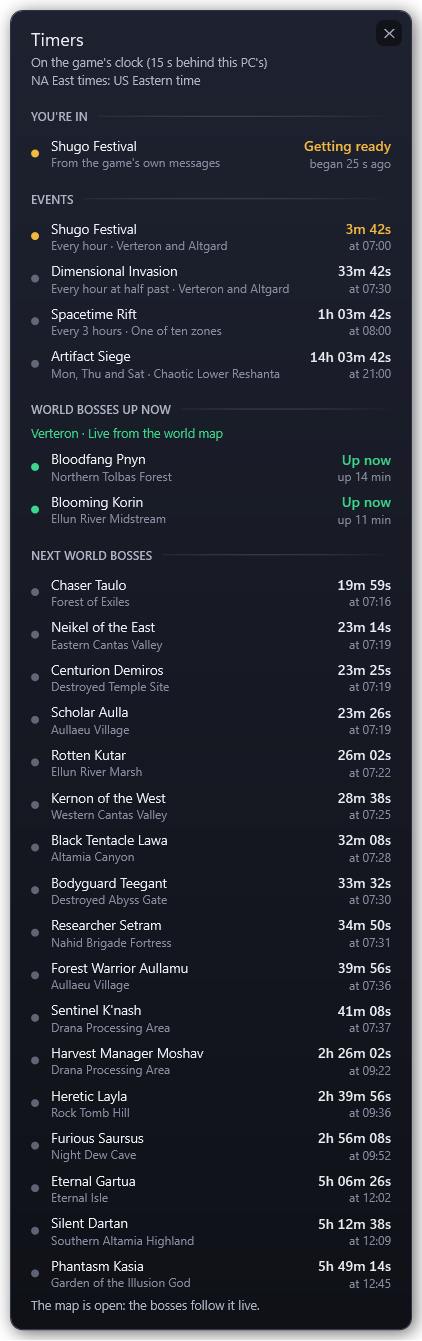
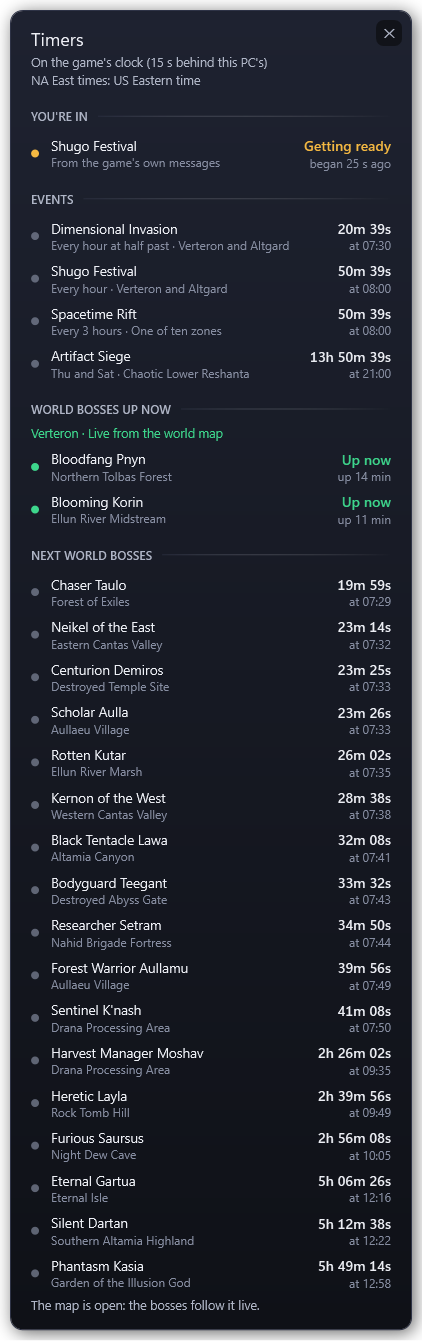
Tracker: the Artifact Siege is Thursday and Saturday (twice a week since the Nov 4 patch)

diff --git a/tracker/KinahLedger.Tracker/Packets/PacketTests.cs b/tracker/KinahLedger.Tracker/Packets/PacketTests.cs
@@ -657,18 +657,18 @@ public static class PacketTests
         // daylight saving: the same Eastern wall-clock grid in October (aion2-data's 00:00 UTC Rift anchor of 2026-10-07), across
         // the autumn change, and over the hour skipped in spring
         var summer = EventTimers.Around(rift, U(10, 7, 22, 30), naE).Next;
-        var mon = EventTimers.Around(siege, U(10, 12, 12), naE).Next;
+        var thu = EventTimers.Around(siege, U(10, 15, 12), naE).Next;
         var (fallLast, fallNext) = EventTimers.Around(rift, U(11, 1, 4), naE);
         var spring = EventTimers.Around(rift, new DateTime(2027, 3, 14, 5, 0, 0, DateTimeKind.Utc), naE).Next;
-        Check(summer == U(10, 8, 0) && mon == U(10, 13, 1) && fallLast == U(11, 1, 3) && fallNext == U(11, 1, 7) && spring == new DateTime(2027, 3, 14, 7, 0, 0, DateTimeKind.Utc),
-            $"...daylight saving: the Rift at {summer:HH:mm}Z on 2026-10-07 (20:00 EDT), the siege Mon 21:00 EDT = {mon:ddd HH:mm}Z; on 2026-11-01 {fallLast:HH:mm}Z then {fallNext:HH:mm}Z (23:00 EDT, 02:00 EST); on 2027-03-14 02:00 doesn't exist: {spring:HH:mm}Z (03:00 EDT)");
+        Check(summer == U(10, 8, 0) && thu == U(10, 16, 1) && fallLast == U(11, 1, 3) && fallNext == U(11, 1, 7) && spring == new DateTime(2027, 3, 14, 7, 0, 0, DateTimeKind.Utc),
+            $"...daylight saving: the Rift at {summer:HH:mm}Z on 2026-10-07 (20:00 EDT), the siege Thu 21:00 EDT = {thu:ddd HH:mm}Z; on 2026-11-01 {fallLast:HH:mm}Z then {fallNext:HH:mm}Z (23:00 EDT, 02:00 EST); on 2027-03-14 02:00 doesn't exist: {spring:HH:mm}Z (03:00 EDT)");
         var at3 = EventTimers.RowOf(EventTimers.Schedule[0], U(11, 14, 2, 3), lag, naE);
         var at6 = EventTimers.RowOf(EventTimers.Schedule[0], U(11, 14, 2, 6), lag, naE);
         Check(at3 is { OnNow: true, When: "started 3 min ago" } && at6 is { OnNow: false, When: "54m 00s" }, $"...the Shugo Festival 3 min past the hour: {Say(at3)}; at 6 past: {Say(at6)}");
         var siegeOn = EventTimers.RowOf(siege, U(11, 15, 2, 5), lag, naE);
         var siegeNext = EventTimers.RowOf(siege, U(11, 15, 2, 25), lag, naE);
-        Check(siegeOn.OnNow && !siegeNext.OnNow && siegeNext.StartPc == U(11, 17, 2) + lag && siegeNext.When == "1d 23h 35m",
-            $"...the Artifact Siege on Saturday 21:05 ET, then next on Monday 21:00 ET: {Say(siegeNext)}");
+        Check(siegeOn.OnNow && !siegeNext.OnNow && siegeNext.StartPc == U(11, 20, 2) + lag && siegeNext.When == "4d 23h 35m",
+            $"...the Artifact Siege on Saturday 21:05 ET, then next on Thursday 21:00 ET (twice a week since the Nov 4 patch): {Say(siegeNext)}");
 
         var et = new EventTimers();
         var pc = server + lag;

diff --git a/tracker/KinahLedger.Tracker/Session/EventTimers.cs b/tracker/KinahLedger.Tracker/Session/EventTimers.cs
@@ -40,7 +40,7 @@ public sealed class EventTimers
     /// The clock of a region (Settings.Region: "na_e", "na_w", "eu", "latam", "asia"). NA East is US Eastern, checked
     /// 2026-11-14: the Abyss server's own next-siege time (Sat 21:00 ET), the chat's "A Spacetime Rift has appeared" at 11:00,
     /// 14:00 and 17:00 ET on 2026-11-13, and the field bosses on Steven's Lower Reshanta map (Watcher Kaira every 3 h from
-    /// 01:00 ET, the Executors 21:30 ET). The other regions are not checked: UTC+9, as before (Europe is likely Central
+    /// 01:00 ET). The other regions are not checked: UTC+9, as before (Europe is likely Central
     /// European time, but no reading tells it apart yet).
     /// </summary>
     public static RegionClock ClockOf(string? region) => region switch
@@ -86,7 +86,7 @@ public sealed class EventTimers
         new("Shugo Festival", "Every hour", 60, 0, null, 6, "Verteron and Altgard"),
         new("Dimensional Invasion", "Every hour at half past", 60, 30, null, 13, "Verteron and Altgard"),
         new("Spacetime Rift", "Every 3 hours", 180, 0, null, 10, "One of ten zones", new Dictionary<string, int> { ["na_e"] = 120 }),
-        new("Artifact Siege", "Mon, Thu and Sat", 1440, 21 * 60, new[] { 1, 4, 6 }, 20, "Chaotic Lower Reshanta"),
+        new("Artifact Siege", "Thu and Sat", 1440, 21 * 60, new[] { 4, 6 }, 20, "Chaotic Lower Reshanta"),   // twice a week since the Nov 4 patch
     };
 
     /// <summary>The event the player is in, as its server told it. Times are UTC on this PC's clock.</summary>
